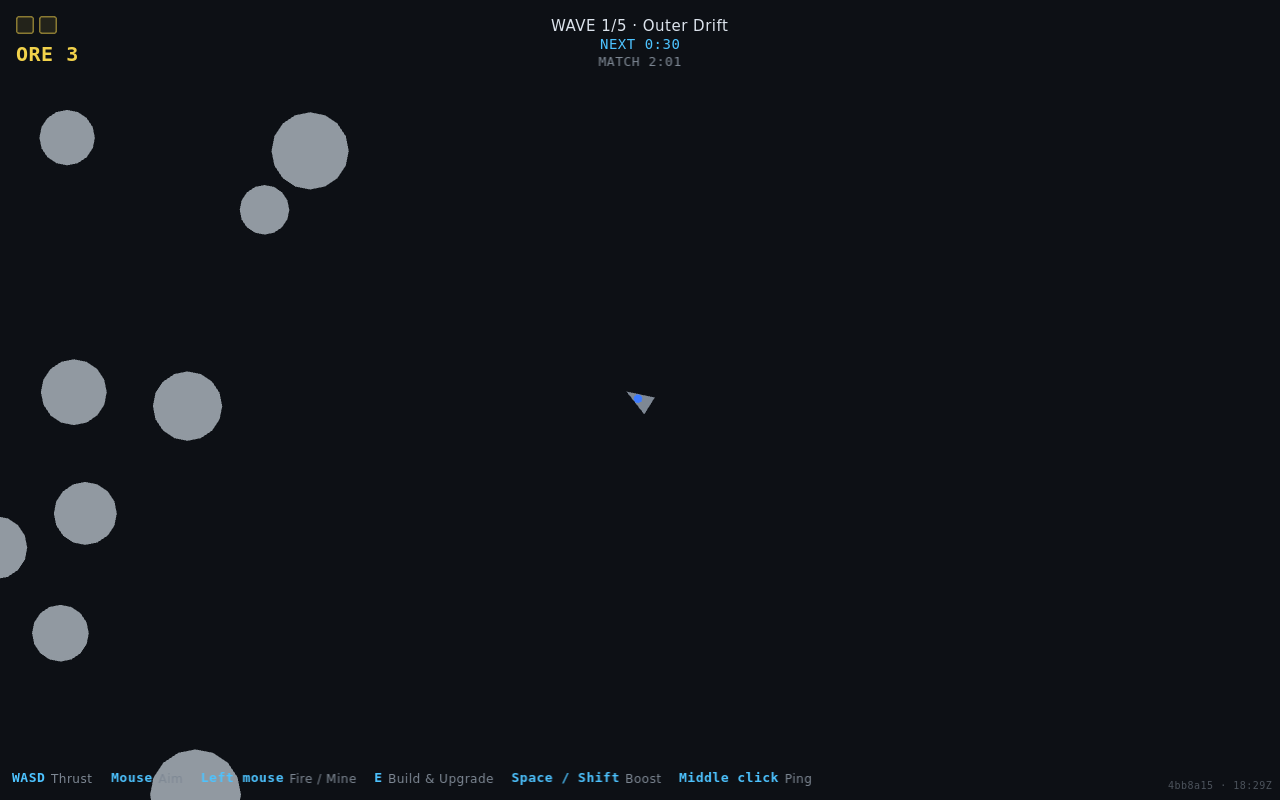
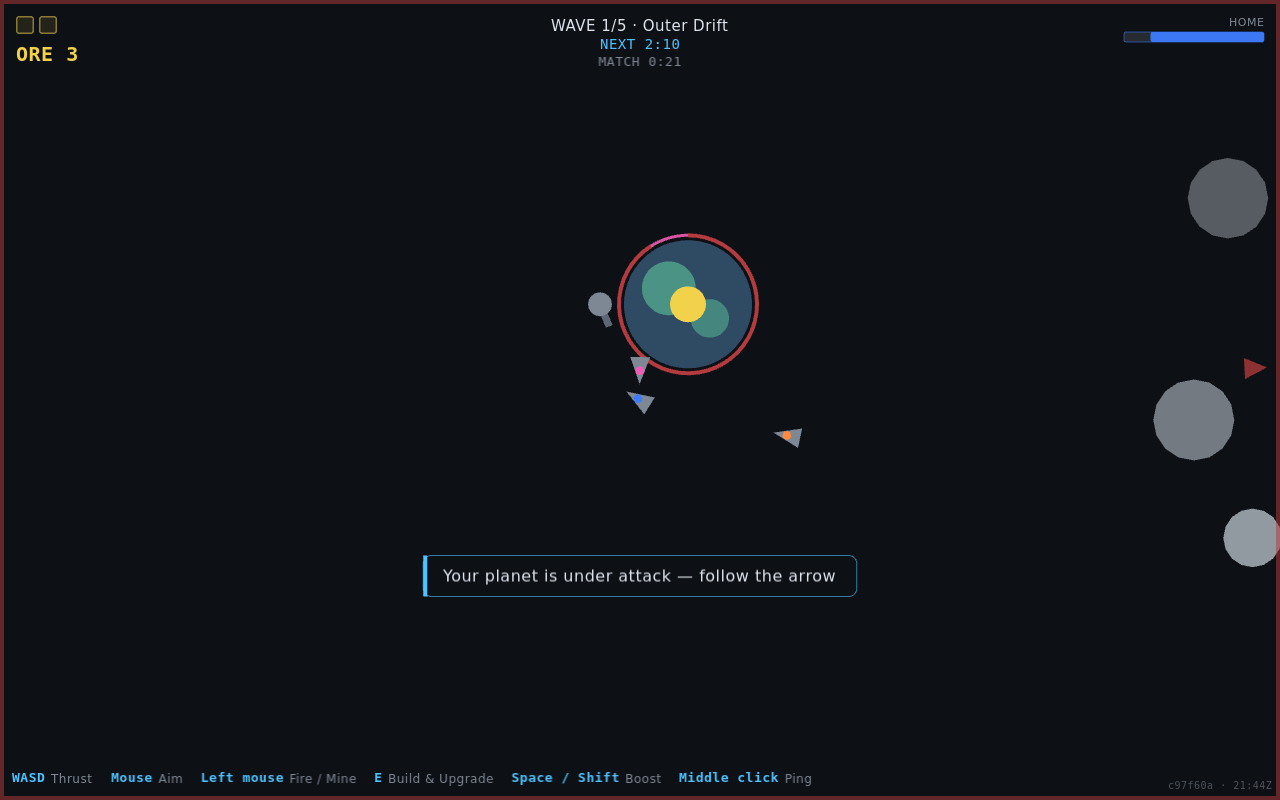
evidence(m2): flip the four M2 re-tag gates to verified on the wired build
PR #40 (m2-wire-the-war) landed the planet/turret/wheel/alarm render + HUD
wiring, so the four gates that honestly FAILED on 4bb8a15 (PR #42) now show
the war. Re-captured each against c97f60a and verified with my own eyes:

- planet-ring        — 8 owner-coloured planets ringing the central field
                       (3600×2000 frame: the 1:1 follow-camera needs the width)
- build-wheel-open   — 5 wedges, costs 3/5/1, ore hub, SPEND tooltip
- turret-construction— plasma build-progress arc on the home planet; ORE 3→0
                       (id renamed from turret-under-construction to match the
                        gate key)
- alarm-arrow        — red alarm frame + "under attack" banner + screen-edge
                       arrow home, captured mid-siege by flying off home so a
                       bot raids the undefended core (~13s in), shutter gated
                       on __planetRush.ticks

capture.mjs updated for the three shots that needed a real gesture/viewport;
README + manifest reflect the flip. All four gates verdict=verified.

diff --git a/evidence/README.md b/evidence/README.md
@@ -12,38 +12,43 @@ a clear description is a real result, not a gap in the gallery.
 - **Camera:** `capture.mjs` — `node evidence/capture.mjs [shot-id ...]`
   (drives each scene, sets the device profile / URL / any input, then shoots).
 
-Build under glass: **`4bb8a15`**.
+Build under glass: **`c97f60a`** (M2 wired in — PR #40, `m2-wire-the-war`).
 
 ## What the gallery proves — and what it does not
 
-**Verified (10):** desktop boot; landscape-phone boot; the live HUD (ore
-squares + counting wave clock + controls strip), with 2× close-ups of the ore
-readout and the controls strip; the idle touch affordances and the left stick
-engaged under a thumb; the ROTATE overlay in portrait (iOS-Safari capability
-profile); and the frozen golden scene on both desktop and phone.
+**Verified (10, boot/HUD/touch/golden):** desktop boot; landscape-phone boot;
+the live HUD (ore squares + counting wave clock + controls strip), with 2×
+close-ups of the ore readout and the controls strip; the idle touch affordances
+and the left stick engaged under a thumb; the ROTATE overlay in portrait
+(iOS-Safari capability profile); and the frozen golden scene on both desktop and
+phone. (These were shot on `4bb8a15`; the surfaces are unchanged.)
 
 **Inconclusive (1):** portrait on stock lock-capable Chromium — the overlay is
 correctly *absent* there, so that shot documents the gate rather than the
 overlay. The overlay itself is proven by `rotate-overlay-portrait-ios`.
 
-### The four M2 re-tag gates all FAILED — features merged, client not wired
+### The four M2 re-tag gates now all PASS — refreshed on the wired build
 
-The post-retraction gate asked for verified evidence of the **8-planet ring**,
-the **Build wheel open with costs**, a **turret mid-construction**, and the
-**alarm arrow**. None are visible in the shipped client (`4bb8a15`):
+The first gallery pass (PR #42) honestly attested these four FAILED on `4bb8a15`,
+because the render/HUD wiring had not merged. It has now (PR #40), and a fresh
+capture on `c97f60a` shows the war on screen:
 
 | Gate | Shot | Result |
 | --- | --- | --- |
-| 8-planet ring on screen | `planet-ring` | **failed** — only asteroids + ship render |
-| Build wheel open w/ costs | `build-wheel-open` | **failed** — no wheel/segments/costs after holding E |
-| Turret mid-construction | `turret-under-construction` | **failed** — no turret, no planet to mount on |
-| Alarm arrow | `alarm-arrow` | **failed** — no alarm frame/arrow after 2 min idle |
+| 8-planet ring on screen | `planet-ring` | **verified** — 8 owner-coloured planets ring the central field (3600×2000 frame) |
+| Build wheel open w/ costs | `build-wheel-open` | **verified** — 5 wedges; costs 3/5/1; ore hub; SPEND tooltip |
+| Turret mid-construction | `turret-construction` | **verified** — plasma progress arc on the home planet; ORE 3→0 |
+| Alarm arrow | `alarm-arrow` | **verified** — red frame + "under attack" banner + edge arrow home, mid-siege |
 
-Root cause is visible in the code, not just the pixels: `src/render/index.ts`
-draws only ships, asteroids, ore chunks and beams (no planet/turret path), and
-`main.ts`'s `feedHud()` never sets any planet-HP, wheel, or alarm field — so
-those HUD surfaces sit at their hidden defaults. The sim *does* build the ring
-and simulate turrets/alarms; the client simply never renders them. This matches
-the retraction on `06b5c31` ("features merged but never wired into the client").
+Notes on the two that needed real work to *see*:
 
-**These four gates do not pass. M2 should not be re-tagged on this build.**
+- **planet-ring** — the follow-camera renders 1:1 and holds the local ship
+  centred, so a normal frame shows only the home planet. The ring is real; a
+  3600×2000 viewport is just wide enough to frame all eight.
+- **alarm-arrow** — offline the seven rivals are live bots, so the old "no
+  attacker" caveat is gone. Abandoning your home (hold A, thrust into the field)
+  draws a bot onto the undefended core within ~13 s; the shutter is gated on the
+  sim's tick counter (`__planetRush.ticks`), so the frame lands inside a genuine
+  siege with home off-screen and the arrow pointing to it.
+
+**All four gates pass on `c97f60a`. They no longer block the M2 re-tag.**
